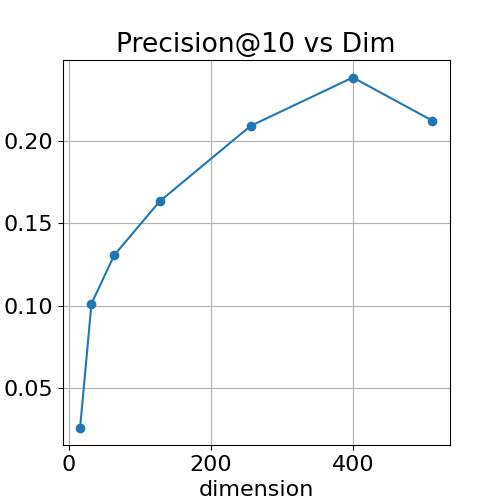
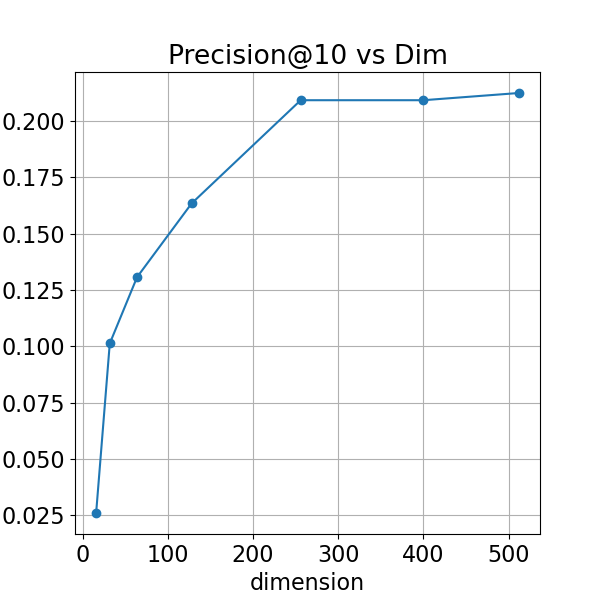
Add p10 2 dim.

diff --git a/pics.py b/pics.py
@@ -192,7 +192,7 @@ def plot_ratio_pk(dataset):
     
 
 def plot_dim():
-    fig, axs = plt.subplots(1, 1, figsize=(5, 5))
+    fig, axs = plt.subplots(1, 1, figsize=(6, 6))
 
     output_dir = f'output/{datasets[1]}'
     pks = []
@@ -221,8 +221,8 @@ def plot_dim():
 if __name__ == '__main__':
     plt.rcParams.update({'font.size': 16})
     plot_dim()
-    plot_ratio_mrr_p10()
-    plot_pK()
+    # plot_ratio_mrr_p10()
+    # plot_pK()
     # for dataset in datasets:
         # plot_pK(dataset)
         # plot_ratio_pk(dataset)
